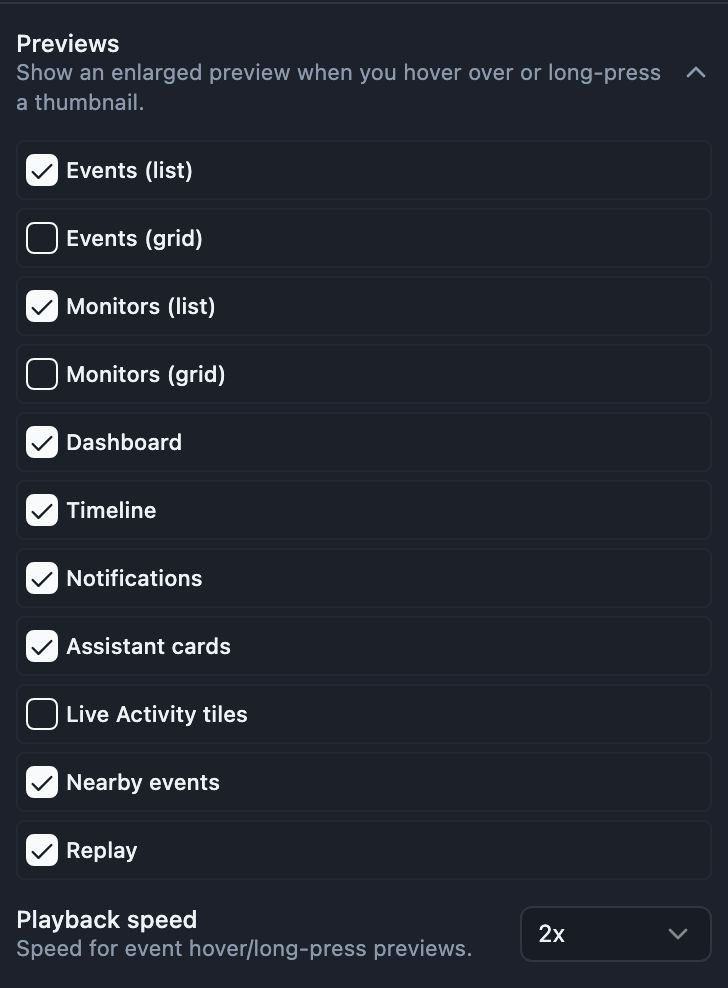
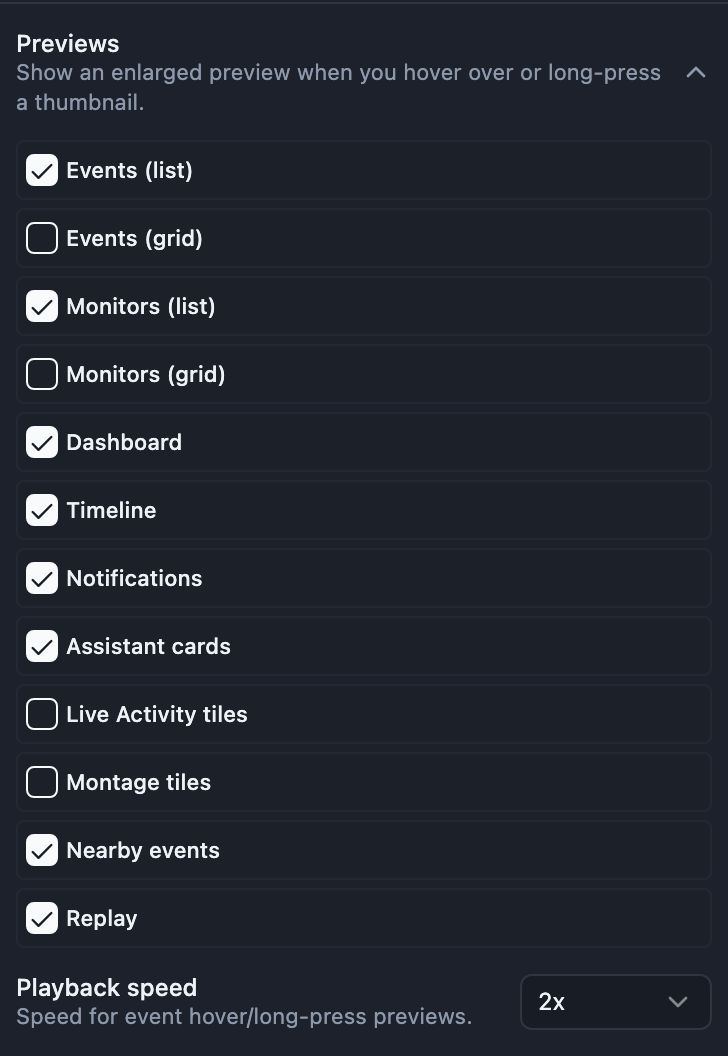
feat(montage): hover preview on a tile, behind its own setting
Every other screen that shows a feed has a Previews checkbox; Montage
never got one. MontageMonitor already took a hoverPreview flag for Live
Activity, so this adds a montage key to HoverPreviewSettings and passes
it down from the page through MontageGridSections.

Off by default for the same reason as Live Activity: the tile is already
streaming the camera, so a preview opens a second connection for a
bigger copy. The grid drops it in edit mode, where a preview popping up
under a tile being dragged gets in the way.

Refs #607

diff --git a/app/src/pages/__tests__/Montage.test.tsx b/app/src/pages/__tests__/Montage.test.tsx
@@ -176,12 +176,14 @@ vi.mock('../../components/monitors/MontageMonitor', () => ({
     reduceStream,
     paused,
     forceViewMode,
+    hoverPreview,
   }: {
     monitor: { Id: string; Name: string };
     profileChip?: string;
     reduceStream?: boolean;
     paused?: boolean;
     forceViewMode?: string;
+    hoverPreview?: boolean;
   }) => {
     pausedRenders.push(paused ?? false);
     return (
@@ -195,6 +197,7 @@ vi.mock('../../components/monitors/MontageMonitor', () => ({
           data-reduce-stream={String(reduceStream ?? false)}
           data-paused={String(paused ?? false)}
           data-force-view-mode={forceViewMode ?? 'none'}
+          data-hover-preview={String(hoverPreview ?? false)}
         />
       </div>
     );
@@ -389,6 +392,40 @@ describe('Montage Page', () => {
     expect(screen.getByTestId('montage-monitor-2')).toHaveTextContent('Back Door');
     expect(screen.queryByTestId('montage-profile-chip')).not.toBeInTheDocument();
     expect(screen.getByTestId('montage-edit-toggle')).not.toBeDisabled();
+  });
+
+  it('gives tiles the hover preview only when the Montage setting is on', () => {
+    const monitors = {
+      monitors: [{ profileId: 'profile-1', profileName: 'Home', item: monitor('1', 'Front Door') }],
+      errors: [],
+      isLoading: false,
+      refetchProfile: vi.fn(),
+    };
+    useScopedMonitorsMock.mockReturnValue(monitors);
+
+    singleProfile();
+    const { unmount } = render(<Montage />);
+    expect(screen.getByTestId('montage-tile-tuning')).toHaveAttribute('data-hover-preview', 'false');
+    unmount();
+
+    singleProfile({ hoverPreview: { ...DEFAULT_SETTINGS.hoverPreview, montage: true } });
+    render(<Montage />);
+    expect(screen.getByTestId('montage-tile-tuning')).toHaveAttribute('data-hover-preview', 'true');
+  });
+
+  it('drops the hover preview while the layout is being edited', () => {
+    singleProfile({ hoverPreview: { ...DEFAULT_SETTINGS.hoverPreview, montage: true } });
+    useScopedMonitorsMock.mockReturnValue({
+      monitors: [{ profileId: 'profile-1', profileName: 'Home', item: monitor('1', 'Front Door') }],
+      errors: [],
+      isLoading: false,
+      refetchProfile: vi.fn(),
+    });
+
+    render(<Montage />);
+    fireEvent.click(screen.getByTestId('montage-edit-toggle'));
+
+    expect(screen.getByTestId('montage-tile-tuning')).toHaveAttribute('data-hover-preview', 'false');
   });
 
   // Layout is a view preference, so All mode edits it against the ALL bucket

diff --git a/app/src/components/montage/MontageGridSections.tsx b/app/src/components/montage/MontageGridSections.tsx
@@ -101,6 +101,8 @@ interface MontageGridSectionsProps {
   focusedMonitorIndex: number;
   showMonitorLabels: boolean;
   objectFit: MonitorFeedFit;
+  /** The Montage hover-preview setting; dropped while the layout is edited. */
+  hoverPreview: boolean;
   accessToken: string | null;
   isMonitorPinned: (tileId: string) => boolean;
   onPinToggle: (tileId: string) => void;
@@ -149,6 +151,7 @@ export function MontageGridSections({
   focusedMonitorIndex,
   showMonitorLabels,
   objectFit,
+  hoverPreview,
   accessToken,
   isMonitorPinned,
   onPinToggle,
@@ -241,6 +244,8 @@ export function MontageGridSections({
               // learning a second way to be off.
               paused={paused || isTileGated(tileId)}
               forceViewMode={forceViewMode}
+              // A preview popping up under a tile being dragged gets in the way.
+              hoverPreview={hoverPreview && !isEditMode}
             />
           </MontageTileErrorBoundary>
         </div>

diff --git a/app/src/stores/settings.ts b/app/src/stores/settings.ts
@@ -68,6 +68,8 @@ export interface HoverPreviewSettings {
   assistant: boolean;
   /** Alarm tiles on Live Activity. */
   liveActivity: boolean;
+  /** Montage tiles; off by default for the same reason as liveActivity. */
+  montage: boolean;
   /** Rows in the "around this event" panel (refs #494). */
   eventContext: boolean;
   /** Tiles in the panel's Replay grid; mirrors the tile's own picture. */
@@ -87,6 +89,7 @@ export const DEFAULT_HOVER_PREVIEW: HoverPreviewSettings = {
   // size, so a hover preview opens a second connection for a bigger copy of
   // what is on screen. Worth having on a wall of small tiles, not by default.
   liveActivity: false,
+  montage: false,
   eventContext: true,
   replay: true,
 };

diff --git a/app/src/components/settings/HoverPreviewEditor.tsx b/app/src/components/settings/HoverPreviewEditor.tsx
@@ -59,6 +59,7 @@ export function HoverPreviewEditor({ value, onChange, playbackRate, onPlaybackRa
     { key: 'notifications', labelKey: 'settings.appearance.hover_preview.notifications' },
     { key: 'assistant', labelKey: 'settings.appearance.hover_preview.assistant' },
     { key: 'liveActivity', labelKey: 'settings.appearance.hover_preview.live_activity' },
+    { key: 'montage', labelKey: 'settings.appearance.hover_preview.montage' },
     { key: 'eventContext', labelKey: 'settings.appearance.hover_preview.event_context' },
     { key: 'replay', labelKey: 'settings.appearance.hover_preview.replay' },
   ];

diff --git a/app/src/pages/Montage.tsx b/app/src/pages/Montage.tsx
@@ -760,6 +760,7 @@ export default function Montage() {
             focusedMonitorIndex={focusedMonitorIndex}
             showMonitorLabels={showMonitorLabels}
             objectFit={settings.montageFeedFit}
+            hoverPreview={settings.hoverPreview.montage}
             accessToken={accessToken}
             isMonitorPinned={isMonitorPinned}
             onPinToggle={togglePinMonitor}

diff --git a/docs/user-guide/montage.md b/docs/user-guide/montage.md
@@ -10,6 +10,8 @@ The Montage on desktop
 
 The Montage view shows multiple camera feeds at once in a drag-and-drop grid.
 
+On a computer, hovering a tile can open an enlarged live preview, the same one the monitor and event lists offer (long-press on mobile). It's off by default, since the tile is already streaming that camera and the preview opens a second connection for a bigger copy. Turn it on under Settings ▸ General ▸ Previews ▸ **Montage tiles**. Tiles don't preview while you're in Edit Mode.
+
 ## Toolbar
 
 ```{figure} ../_static/img/screens/montage/toolbar.jpg

diff --git a/docs/user-guide/settings.md b/docs/user-guide/settings.md
@@ -83,6 +83,7 @@ Previews enlarge a feed or event in place when you hover over it on desktop, or 
 - Notifications
 - Assistant cards (the event cards under a Ninjii answer)
 - Live Activity tiles (off by default: the tile already streams that camera, so the preview opens a second connection for a larger copy)
+- Montage tiles (off by default, for the same reason; no preview while you're editing the layout)
 - Nearby events
 - Replay (tiles in the nearby events Replay grid; the preview copies the tile's own picture, so it opens no second connection)
 
